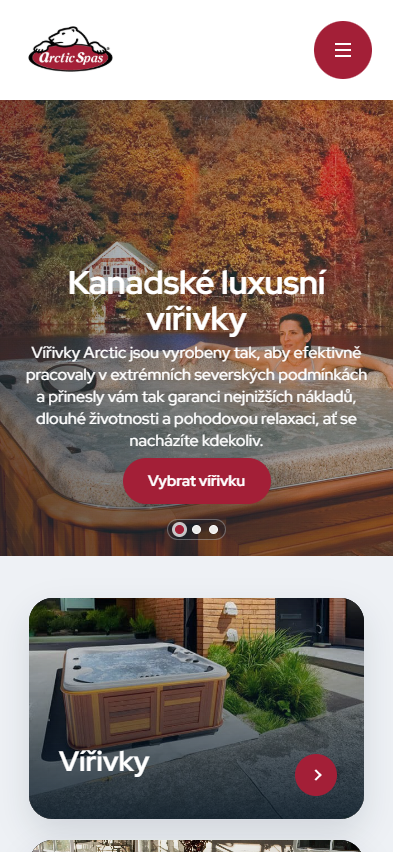
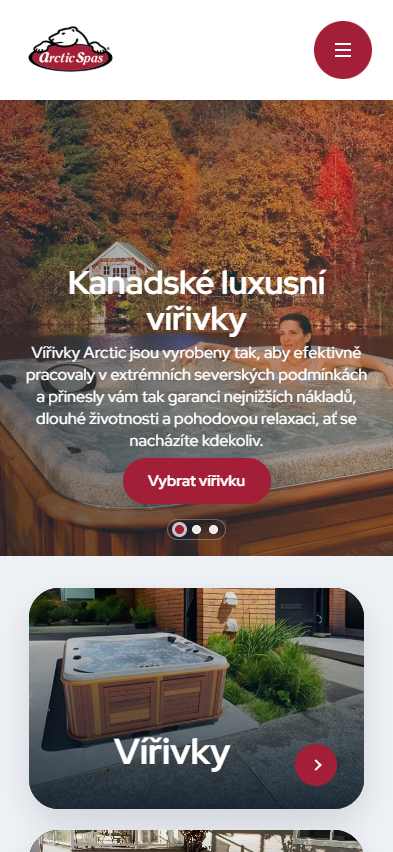
Align homepage mobile category cards

Changed region(s): [[0.0611, 0.6714, 0.9466, 1.0]]

diff --git a/tools/homepage-categories-mobile-smoke.js b/tools/homepage-categories-mobile-smoke.js
@@ -1,0 +1,141 @@
+const { chromium } = require('playwright-core');
+const fs = require('fs');
+const path = require('path');
+
+const baseUrl = (process.env.ARCTIC_BASE_URL || 'http://localhost:8090').replace(/\/$/, '');
+const label = baseUrl.includes('localhost') ? 'local' : 'production';
+const outDir = path.join('docs', 'screenshots', 'homepage-categories-mobile-2026-06-08');
+
+function fail(message, details = undefined) {
+  const error = new Error(message);
+  if (details) {
+    error.details = details;
+  }
+  throw error;
+}
+
+(async () => {
+  fs.mkdirSync(outDir, { recursive: true });
+
+  const browser = await chromium.launch({
+    channel: process.env.PLAYWRIGHT_CHANNEL || 'chrome',
+    headless: true,
+  });
+
+  const page = await browser.newPage({
+    viewport: { width: 393, height: 852 },
+    deviceScaleFactor: 1,
+    isMobile: true,
+  });
+
+  await page.goto(`${baseUrl}/`, { waitUntil: 'networkidle' });
+  await page.locator('.f-section--product-categories').scrollIntoViewIfNeeded();
+  await page.waitForTimeout(500);
+
+  const audit = await page.evaluate(() => {
+    const rect = (element) => {
+      if (!element) {
+        return null;
+      }
+      const r = element.getBoundingClientRect();
+      return {
+        x: r.x,
+        y: r.y,
+        width: r.width,
+        height: r.height,
+        top: r.top,
+        right: r.right,
+        bottom: r.bottom,
+        left: r.left,
+      };
+    };
+
+    const cards = Array.from(document.querySelectorAll('.template--homepage .f-category')).map((card) => {
+      const image = card.querySelector('.f-category__image');
+      const img = card.querySelector('.f-category__image img');
+      const title = card.querySelector('h3');
+
+      return {
+        className: card.className,
+        slug: card.className.includes('virivky') ? 'virivky' : (card.className.includes('swimspa') ? 'swimspa' : ''),
+        card: rect(card),
+        media: rect(image),
+        img: rect(img),
+        title: title && {
+          text: title.textContent.trim(),
+          rect: rect(title),
+        },
+        objectFit: img ? getComputedStyle(img).objectFit : '',
+        objectPosition: img ? getComputedStyle(img).objectPosition : '',
+      };
+    });
+
+    return {
+      url: window.location.href,
+      viewportWidth: window.innerWidth,
+      scrollWidth: document.documentElement.scrollWidth,
+      cards,
+      assets: Array.from(document.querySelectorAll('link[href*="homepage-mobile-slider.css"]')).map((asset) => asset.outerHTML),
+    };
+  });
+
+  await page.screenshot({
+    path: path.join(outDir, `${label}-home-categories-mobile.png`),
+    fullPage: false,
+  });
+
+  fs.writeFileSync(path.join(outDir, `${label}-audit.json`), JSON.stringify(audit, null, 2));
+
+  if (audit.scrollWidth > audit.viewportWidth + 1) {
+    fail('Homepage mobile categories create horizontal overflow.', audit);
+  }
+
+  if (audit.cards.length !== 2) {
+    fail('Expected exactly two homepage category cards on mobile.', audit);
+  }
+
+  const [first, second] = audit.cards;
+  for (const card of audit.cards) {
+    if (!card.card || !card.media || !card.img || !card.title) {
+      fail(`Homepage category ${card.slug || card.className} is missing required DOM parts.`, card);
+    }
+
+    if (Math.abs(card.card.width - card.media.width) > 1 || Math.abs(card.card.height - card.media.height) > 1) {
+      fail(`Homepage category ${card.slug} media does not match the card box.`, card);
+    }
+
+    if (Math.abs(card.media.width - card.img.width) > 1 || Math.abs(card.media.height - card.img.height) > 1) {
+      fail(`Homepage category ${card.slug} image does not fill the media box.`, card);
+    }
+
+    if (card.objectFit !== 'cover') {
+      fail(`Homepage category ${card.slug} image must use object-fit: cover.`, card);
+    }
+
+    if (card.title.rect.left < card.card.left || card.title.rect.right > card.card.right || card.title.rect.bottom > card.card.bottom) {
+      fail(`Homepage category ${card.slug} title escapes the card.`, card);
+    }
+  }
+
+  if (Math.abs(first.card.x - second.card.x) > 1 || Math.abs(first.card.width - second.card.width) > 1 || Math.abs(first.card.height - second.card.height) > 1) {
+    fail('Homepage mobile category cards are not aligned to the same x/width/height.', audit);
+  }
+
+  const gap = second.card.top - first.card.bottom;
+  if (gap < 16 || gap > 28) {
+    fail('Homepage mobile category cards have an unstable vertical gap.', audit);
+  }
+
+  if (audit.assets.length < 1) {
+    fail('Homepage mobile category stylesheet was not enqueued.', audit);
+  }
+
+  console.log(`Homepage mobile categories smoke passed: ${audit.cards.map((card) => card.slug).join(', ')}`);
+  await browser.close();
+})().catch((error) => {
+  console.error(error.message);
+  if (error.details) {
+    console.error(JSON.stringify(error.details, null, 2));
+  }
+  process.exit(1);
+});

diff --git a/wp-content/themes/arctic/dist/css/homepage-mobile-slider.css b/wp-content/themes/arctic/dist/css/homepage-mobile-slider.css
@@ -119,4 +119,87 @@
     border-color: var(--arctic-color-red, #a31f37);
     box-shadow: 0 0 0 3px rgba(255, 255, 255, 0.74);
   }
+
+  .template--homepage .f-section--product-categories {
+    padding-top: 32px;
+    padding-bottom: 42px;
+    background: var(--arctic-color-frost, #eef1f5);
+  }
+
+  .template--homepage .f-section--product-categories .f-section__container {
+    box-sizing: border-box;
+    width: calc(100% - 58px);
+    max-width: calc(100% - 58px);
+    padding-right: 0;
+    padding-left: 0;
+  }
+
+  .template--homepage .f-categories--product {
+    display: grid;
+    grid-template-columns: 1fr;
+    gap: 21px;
+    width: 100%;
+    max-width: 100%;
+    padding: 0;
+    margin: 0;
+  }
+
+  .template--homepage .f-category {
+    position: relative;
+    width: 100%;
+    height: 221px;
+    min-height: 221px;
+    overflow: hidden;
+    border-radius: 30px;
+  }
+
+  .template--homepage .f-category__image,
+  .template--homepage .f-category__image picture,
+  .template--homepage .f-category__image img {
+    display: block;
+    width: 100%;
+    height: 100%;
+  }
+
+  .template--homepage .f-category__image img {
+    object-fit: cover;
+  }
+
+  .template--homepage .f-category.virivky .f-category__image img {
+    object-position: center bottom;
+  }
+
+  .template--homepage .f-category.swimspa .f-category__image img {
+    object-position: right bottom;
+  }
+
+  .template--homepage .f-category__container {
+    position: absolute;
+    inset: 0;
+    z-index: 2;
+    display: flex;
+    align-items: flex-end;
+    box-sizing: border-box;
+    width: 100%;
+    height: 100%;
+    padding: 0 30px 31px;
+    color: var(--arctic-color-snow, #ffffff);
+    text-decoration: none;
+  }
+
+  .template--homepage .f-category__container .a-stack {
+    width: min(220px, 100%);
+  }
+
+  .template--homepage .f-category h3 {
+    width: min(220px, 100%);
+    margin: 0;
+    color: inherit;
+    font-size: 36px;
+    line-height: 51px;
+  }
+
+  .template--homepage .f-category p {
+    display: none;
+  }
 }
